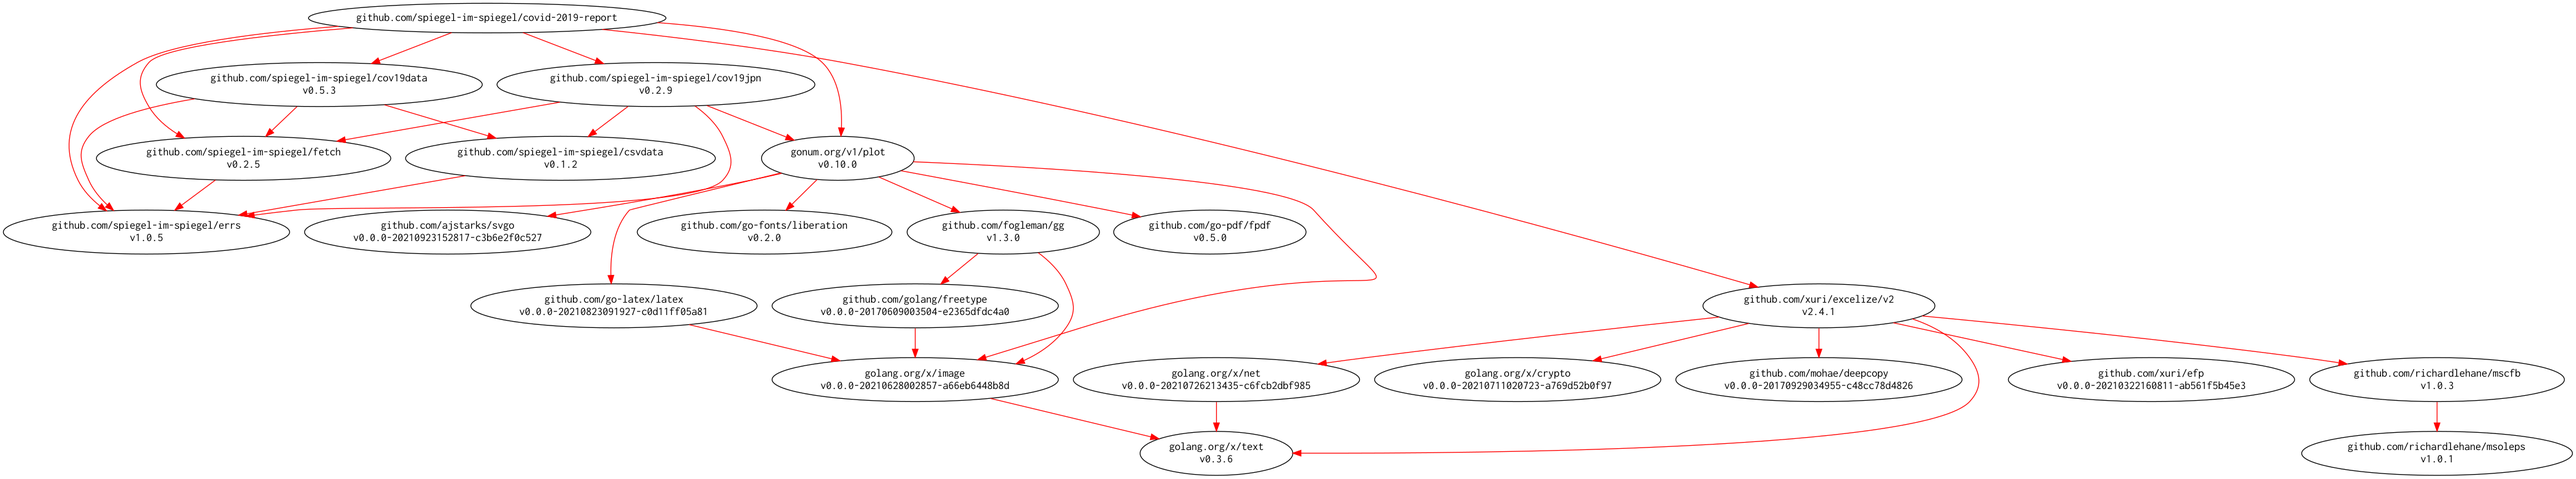
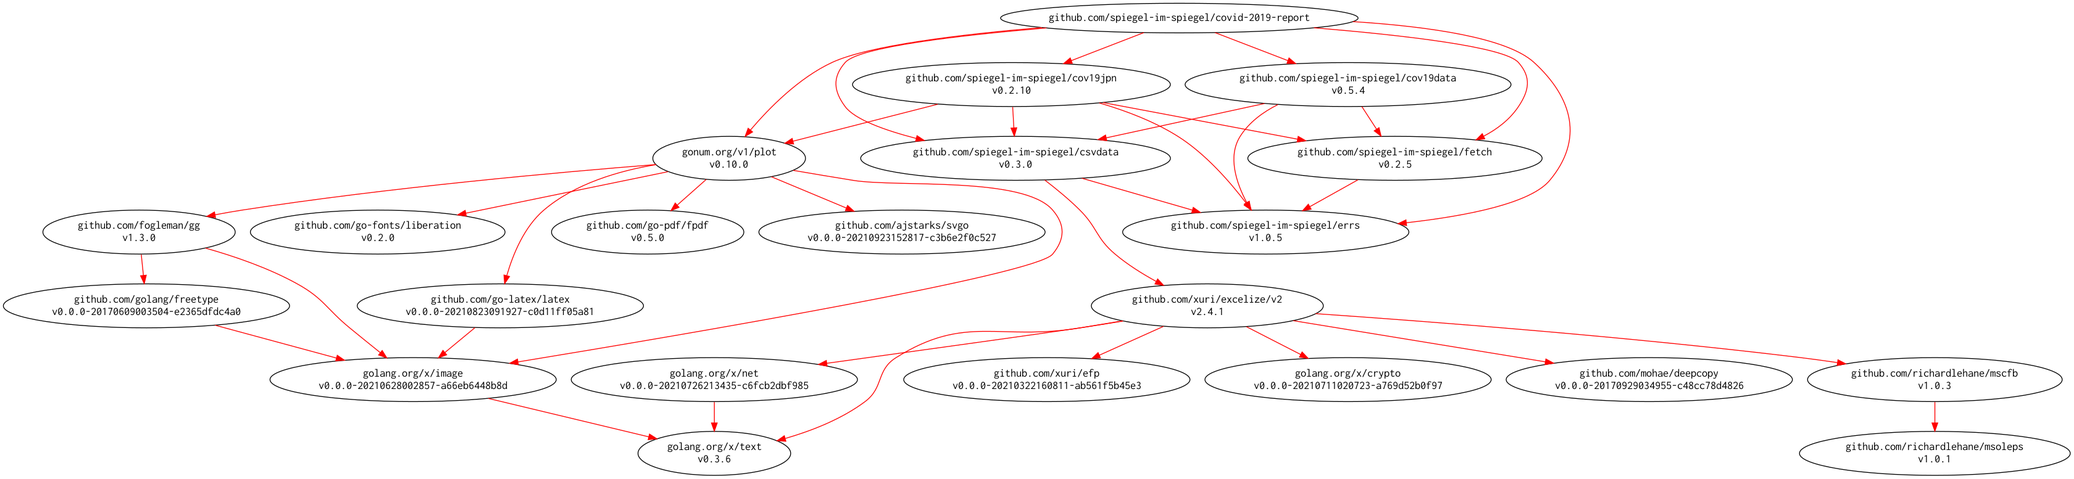
Bump up version of packages

diff --git a/report/matsue/excel/infections.go b/report/matsue/excel/infections.go
@@ -1,11 +1,14 @@
 package excel
 
 import (
+	"io"
 	"strings"
 
 	"github.com/spiegel-im-spiegel/cov19jpn/values/date"
 	"github.com/spiegel-im-spiegel/errs"
-	"github.com/xuri/excelize/v2"
+
+	"github.com/spiegel-im-spiegel/csvdata"
+	"github.com/spiegel-im-spiegel/csvdata/exceldata"
 )
 
 type Infection struct {
@@ -17,53 +20,46 @@ type Infection struct {
 	FromOutside []string
 }
 
-func NewInfections(xlsx *excelize.File, sheetIndex int) ([]*Infection, error) {
-	rows, err := xlsx.Rows(xlsx.GetSheetName(sheetIndex))
+func NewInfections(path, sheetName string) ([]*Infection, error) {
+	ods, err := exceldata.OpenFile(path, "")
 	if err != nil {
-		var errSheet excelize.ErrSheetNotExist
-		if errs.As(err, &errSheet) {
-			return nil, errs.Wrap(ErrInvalidSheetName, errs.WithCause(err))
-		}
-		return nil, errs.Wrap(err)
+		return nil, errs.Wrap(err, errs.WithContext("path", path))
 	}
+	r, err := exceldata.New(ods, sheetName)
+	if err != nil {
+		return nil, errs.Wrap(err, errs.WithContext("path", path), errs.WithContext("sheetName", sheetName))
+	}
+	rows := csvdata.NewRows(r, true)
+	rows.Close() // dummy
 
 	infections := []*Infection{}
-	for rows.Next() {
-		cols, err := rows.Columns()
-		if err != nil {
-			return nil, errs.Wrap(err)
-		}
-		if len(cols) < 3 {
-			return nil, errs.Wrap(ErrInvalidExcelData, errs.WithContext("cols", cols))
+	for {
+		if err := rows.Next(); err != nil {
+			if errs.Is(err, io.EOF) {
+				break
+			}
+			return infections, errs.Wrap(err)
 		}
 		i := &Infection{
-			NodeMatsue:  "m" + cols[0],
-			NodeShimane: "s" + cols[1],
-			Date:        date.FromString(cols[2]),
+			NodeMatsue:  "m" + rows.Get(0),
+			NodeShimane: "s" + rows.Get(1),
+			Date:        date.FromString(rows.Get(2)),
 			InsideFlag:  false,
 			FromInside:  []string{},
 			FromOutside: []string{},
 		}
-		if len(cols) >= 4 && strings.EqualFold(cols[3], "1") {
+		if strings.EqualFold(rows.Get(3), "1") {
 			i.InsideFlag = true
 		}
-		if len(cols) >= 5 && len(cols[4]) > 0 {
-			i.FromInside = append(i.FromInside, "m"+cols[4])
+		for n := 4; n <= 7; n++ {
+			if s := rows.Get(n); len(s) > 0 {
+				i.FromInside = append(i.FromInside, "m"+s)
+			}
 		}
-		if len(cols) >= 6 && len(cols[5]) > 0 {
-			i.FromInside = append(i.FromInside, "m"+cols[5])
-		}
-		if len(cols) >= 7 && len(cols[6]) > 0 {
-			i.FromInside = append(i.FromInside, "m"+cols[6])
-		}
-		if len(cols) >= 8 && len(cols[7]) > 0 {
-			i.FromInside = append(i.FromInside, "m"+cols[7])
-		}
-		if len(cols) >= 9 && len(cols[8]) > 0 {
-			i.FromOutside = append(i.FromOutside, cols[8])
-		}
-		if len(cols) >= 10 && len(cols[9]) > 0 {
-			i.FromOutside = append(i.FromOutside, cols[9])
+		for n := 8; n <= 9; n++ {
+			if s := rows.Get(n); len(s) > 0 {
+				i.FromOutside = append(i.FromOutside, s)
+			}
 		}
 		infections = append(infections, i)
 	}

diff --git a/report/matsue/infections.go b/report/matsue/infections.go
@@ -16,12 +16,7 @@ func main() {
 		fmt.Fprintln(os.Stderr, os.ErrInvalid)
 		return
 	}
-	xlsx, no, err := excel.OpenXlsxFileSheet(args[0], "")
-	if err != nil {
-		fmt.Fprintf(os.Stderr, "%+v\n", err)
-		return
-	}
-	infections, err := excel.NewInfections(xlsx, no)
+	infections, err := excel.NewInfections(args[0], "")
 	if err != nil {
 		fmt.Fprintf(os.Stderr, "%+v\n", err)
 		return
